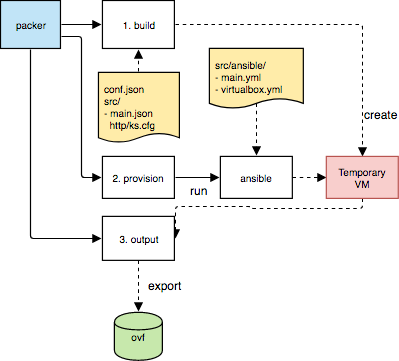
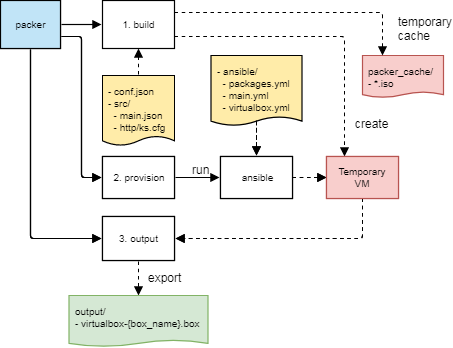
initial working state

diff --git a/README.md b/README.md
@@ -4,9 +4,9 @@
 
 Creates a Virtualbox .box file suitable for use with Vagrant, with a very specific version of Centos with specific configuration.
 
-- Virtualbox Guest Additions
+- working Virtualbox shared filesystem driver (vboxsf)
 - virtual DVD
-- vagrant user *not* with uid 1000
+- vagrant user *not* with uid `1000` (so the first usr *you* create will get `1000`)
 - root pw and vagrant pw = "vagrant"
 - verbose, non-graphical boot
 - unnecessary drivers are removed and various basic tools are added
@@ -23,19 +23,25 @@ Creates a Virtualbox .box file suitable for use with Vagrant, with a very specif
 
 ## Usage
 
-    vi conf.json                      # check / edit config
-    make clean
+Unfortunately (due to packer limitations),
+user configuration has to live in more than one place.
+
+    vi conf.json                  # check / edit config
+    vi ansible/packages.yml       # check / edit (pay attention to the kernel package versions)
     make
 
 ## Directory Structure
 
     .
-    ├── conf.json            # user configuration
+    ├── conf.json            # <<<── user configuration
+    ├── ansible/
+    |   ├─ packages.yml      # <<<── MORE user configuration
+    |   └─ ...
     ├── Makefile
     ├── README.md
     ├── output/              # final .box file goes in here
-    ├── packer_cache/        # downloaded artifacts (e.g. iso's)
-    └── src/                 # source scripts and config
+    ├── packer_cache/        # downloaded artifacts (e.g. iso's), can be deleted
+    └── src/                 # source scripts & data
 
 ## Diagram
 
